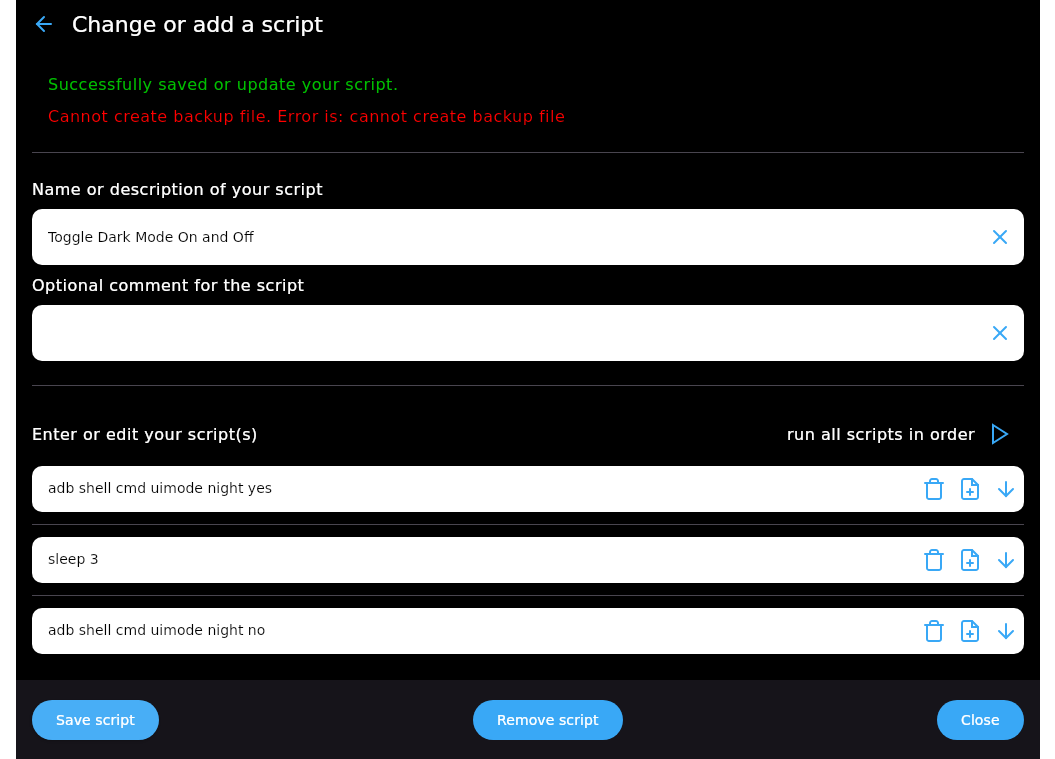
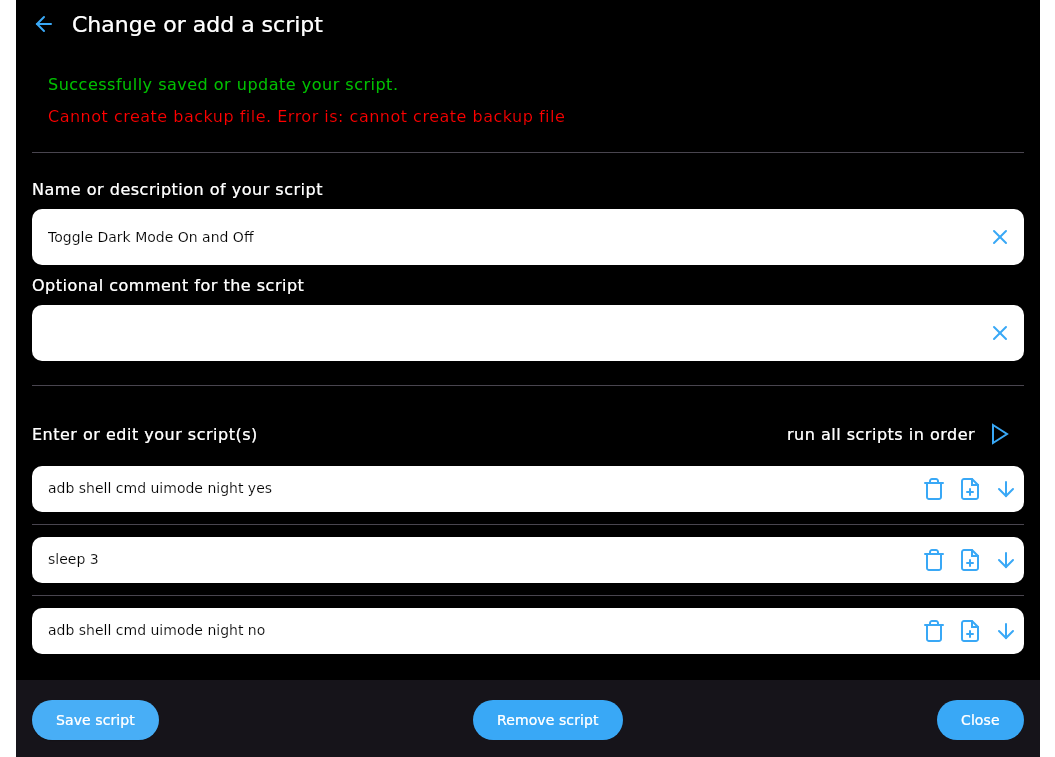
Bump libs and migrate to koin compiler (#141)
* Fix/Improve

* Fix/Improve

* chore: update buildconfig to 6.1.2

* refactor: migrate from KSP to Koin compiler plugin

* Fix/Improve

* CI: Update screenshots

diff --git a/sharedCode/src/commonMain/kotlin/de/joz/appcommander/App.kt b/sharedCode/src/commonMain/kotlin/de/joz/appcommander/App.kt
@@ -5,6 +5,7 @@ import androidx.compose.runtime.Composable
 import androidx.compose.runtime.ReadOnlyComposable
 import androidx.compose.runtime.rememberCoroutineScope
 import androidx.lifecycle.compose.collectAsStateWithLifecycle
+import androidx.navigation.NavController
 import androidx.navigation.NavHostController
 import androidx.navigation.compose.NavHost
 import androidx.navigation.compose.composable
@@ -46,7 +47,7 @@ fun App(
 		) {
 			composable<NavigationScreens.WelcomeScreen> {
 				val viewModel: WelcomeViewModel = koinViewModel {
-					parametersOf(navHostController)
+					parametersOf(navHostController as NavController)
 				}
 
 				WelcomeScreen(
@@ -56,7 +57,7 @@ fun App(
 			}
 			composable<NavigationScreens.ScriptsScreen> {
 				val viewModel: ScriptsViewModel = koinViewModel {
-					parametersOf(navHostController)
+					parametersOf(navHostController as NavController)
 				}
 
 				ScriptsScreen(
@@ -65,7 +66,7 @@ fun App(
 			}
 			composable<NavigationScreens.NewScriptScreen> {
 				val viewModel: EditScriptViewModel = koinViewModel {
-					parametersOf(navHostController, it.toRoute<NavigationScreens.NewScriptScreen>().scriptKey)
+					parametersOf(navHostController as NavController, it.toRoute<NavigationScreens.NewScriptScreen>().scriptKey)
 				}
 
 				EditScriptScreen(
@@ -74,7 +75,7 @@ fun App(
 			}
 			composable<NavigationScreens.SettingsScreen> {
 				val viewModel: SettingsViewModel = koinViewModel {
-					parametersOf(navHostController)
+					parametersOf(navHostController as NavController)
 				}
 
 				SettingsScreen(

diff --git a/desktopApp/src/main/kotlin/de/joz/appcommander/launch/DesktopApp.kt b/desktopApp/src/main/kotlin/de/joz/appcommander/launch/DesktopApp.kt
@@ -14,7 +14,7 @@ import de.joz.appcommander.resources.app_name
 import org.jetbrains.compose.resources.stringResource
 import org.koin.compose.KoinApplication
 import org.koin.dsl.koinConfiguration
-import org.koin.ksp.generated.*
+import org.koin.plugin.module.dsl.*
 
 fun main() =
 	application {
@@ -28,7 +28,7 @@ fun main() =
 			onCloseRequest = ::exitApplication,
 		) {
 			KoinApplication(
-				configuration = koinConfiguration(declaration = { modules(DependencyInjection().module) }),
+				configuration = koinConfiguration(declaration = { module<DependencyInjection>() }),
 				content = {
 					App()
 				},

diff --git a/sharedCode/src/commonTest/kotlin/de/joz/appcommander/ui/edit/EditScriptScreenComplex2Test.kt b/sharedCode/src/commonTest/kotlin/de/joz/appcommander/ui/edit/EditScriptScreenComplex2Test.kt
@@ -32,7 +32,7 @@ import kotlinx.coroutines.Dispatchers
 import kotlinx.coroutines.flow.flowOf
 import org.junit.Rule
 import org.koin.dsl.module
-import org.koin.ksp.generated.*
+import org.koin.plugin.module.dsl.*
 import org.koin.test.KoinTest
 import org.koin.test.KoinTestRule
 import kotlin.test.Test
@@ -80,7 +80,7 @@ class EditScriptScreenComplex2Test :
 
 	@get:Rule
 	val koinTestRule = KoinTestRule.create {
-		modules(DependencyInjection().module)
+		module<DependencyInjection>()
 		modules(
 			module {
 				single {

diff --git a/sharedCode/src/commonTest/kotlin/de/joz/appcommander/ui/e2e/EndToEndTest.kt b/sharedCode/src/commonTest/kotlin/de/joz/appcommander/ui/e2e/EndToEndTest.kt
@@ -52,7 +52,7 @@ import io.mockk.mockk
 import kotlinx.coroutines.flow.flowOf
 import org.junit.Rule
 import org.koin.dsl.module
-import org.koin.ksp.generated.*
+import org.koin.plugin.module.dsl.*
 import org.koin.test.KoinTest
 import org.koin.test.KoinTestRule
 import kotlin.test.AfterTest
@@ -101,7 +101,7 @@ class EndToEndTest :
 
 	@get:Rule
 	val koinTestRule = KoinTestRule.create {
-		modules(DependencyInjection().module)
+		module<DependencyInjection>()
 		modules(
 			module {
 				single<PreferencesRepository> {

diff --git a/sharedCode/src/commonTest/kotlin/de/joz/appcommander/ui/edit/EditScriptScreenTest.kt b/sharedCode/src/commonTest/kotlin/de/joz/appcommander/ui/edit/EditScriptScreenTest.kt
@@ -44,7 +44,7 @@ import kotlinx.coroutines.Dispatchers
 import kotlinx.coroutines.flow.flowOf
 import org.junit.Rule
 import org.koin.dsl.module
-import org.koin.ksp.generated.*
+import org.koin.plugin.module.dsl.*
 import org.koin.test.KoinTest
 import org.koin.test.KoinTestRule
 import kotlin.test.Test
@@ -96,7 +96,7 @@ class EditScriptScreenTest :
 
 	@get:Rule
 	val koinTestRule = KoinTestRule.create {
-		modules(DependencyInjection().module)
+		module<DependencyInjection>()
 		modules(
 			module {
 				single {

diff --git a/sharedCode/src/commonTest/kotlin/de/joz/appcommander/ui/scripts/ScriptsScreenTest.kt b/sharedCode/src/commonTest/kotlin/de/joz/appcommander/ui/scripts/ScriptsScreenTest.kt
@@ -32,7 +32,7 @@ import io.mockk.mockk
 import kotlinx.coroutines.flow.flowOf
 import org.junit.Rule
 import org.koin.dsl.module
-import org.koin.ksp.generated.*
+import org.koin.plugin.module.dsl.*
 import org.koin.test.KoinTest
 import org.koin.test.KoinTestRule
 import kotlin.test.Test
@@ -69,7 +69,7 @@ class ScriptsScreenTest :
 
 	@get:Rule
 	val koinTestRule = KoinTestRule.create {
-		modules(DependencyInjection().module)
+		module<DependencyInjection>()
 		modules(
 			module {
 				single {

diff --git a/sharedCode/src/commonTest/kotlin/de/joz/appcommander/ui/AppTest.kt b/sharedCode/src/commonTest/kotlin/de/joz/appcommander/ui/AppTest.kt
@@ -18,7 +18,7 @@ import io.mockk.every
 import io.mockk.mockk
 import org.junit.Rule
 import org.koin.dsl.module
-import org.koin.ksp.generated.*
+import org.koin.plugin.module.dsl.*
 import org.koin.test.KoinTest
 import org.koin.test.KoinTestRule
 import kotlin.test.Test
@@ -32,7 +32,7 @@ class AppTest :
 
 	@get:Rule
 	val koinTestRule = KoinTestRule.create {
-		modules(DependencyInjection().module)
+		module<DependencyInjection>()
 		modules(
 			module {
 				single<SavePreferenceUseCase> {

diff --git a/sharedCode/src/commonMain/kotlin/de/joz/appcommander/ui/welcome/WelcomeViewModel.kt b/sharedCode/src/commonMain/kotlin/de/joz/appcommander/ui/welcome/WelcomeViewModel.kt
@@ -10,7 +10,7 @@ import de.joz.appcommander.ui.settings.SettingsViewModel
 import kotlinx.coroutines.flow.MutableStateFlow
 import kotlinx.coroutines.flow.asStateFlow
 import kotlinx.coroutines.launch
-import org.koin.android.annotation.KoinViewModel
+import org.koin.core.annotation.KoinViewModel
 import org.koin.core.annotation.InjectedParam
 
 @KoinViewModel

diff --git a/sharedCode/src/commonMain/kotlin/de/joz/appcommander/ui/settings/SettingsViewModel.kt b/sharedCode/src/commonMain/kotlin/de/joz/appcommander/ui/settings/SettingsViewModel.kt
@@ -24,7 +24,7 @@ import kotlinx.coroutines.flow.asStateFlow
 import kotlinx.coroutines.flow.update
 import kotlinx.coroutines.launch
 import org.jetbrains.compose.resources.StringResource
-import org.koin.android.annotation.KoinViewModel
+import org.koin.core.annotation.KoinViewModel
 import org.koin.core.annotation.InjectedParam
 
 @KoinViewModel

diff --git a/sharedCode/src/commonMain/kotlin/de/joz/appcommander/ui/edit/EditScriptViewModel.kt b/sharedCode/src/commonMain/kotlin/de/joz/appcommander/ui/edit/EditScriptViewModel.kt
@@ -19,7 +19,7 @@ import kotlinx.coroutines.flow.MutableStateFlow
 import kotlinx.coroutines.flow.asStateFlow
 import kotlinx.coroutines.flow.update
 import kotlinx.coroutines.launch
-import org.koin.android.annotation.KoinViewModel
+import org.koin.core.annotation.KoinViewModel
 import org.koin.core.annotation.InjectedParam
 
 @KoinViewModel

diff --git a/sharedCode/src/commonMain/kotlin/de/joz/appcommander/ui/scripts/ScriptsViewModel.kt b/sharedCode/src/commonMain/kotlin/de/joz/appcommander/ui/scripts/ScriptsViewModel.kt
@@ -27,7 +27,7 @@ import kotlinx.coroutines.flow.MutableStateFlow
 import kotlinx.coroutines.flow.asStateFlow
 import kotlinx.coroutines.flow.update
 import kotlinx.coroutines.launch
-import org.koin.android.annotation.KoinViewModel
+import org.koin.core.annotation.KoinViewModel
 import org.koin.core.annotation.InjectedParam
 
 @KoinViewModel

diff --git a/sharedCode/src/commonMain/kotlin/de/joz/appcommander/ui/misc/ConnectedDevicesViewModel.kt b/sharedCode/src/commonMain/kotlin/de/joz/appcommander/ui/misc/ConnectedDevicesViewModel.kt
@@ -12,7 +12,7 @@ import kotlinx.coroutines.flow.MutableStateFlow
 import kotlinx.coroutines.flow.asStateFlow
 import kotlinx.coroutines.flow.update
 import kotlinx.coroutines.launch
-import org.koin.android.annotation.KoinViewModel
+import org.koin.core.annotation.KoinViewModel
 
 @KoinViewModel
 class ConnectedDevicesViewModel(
